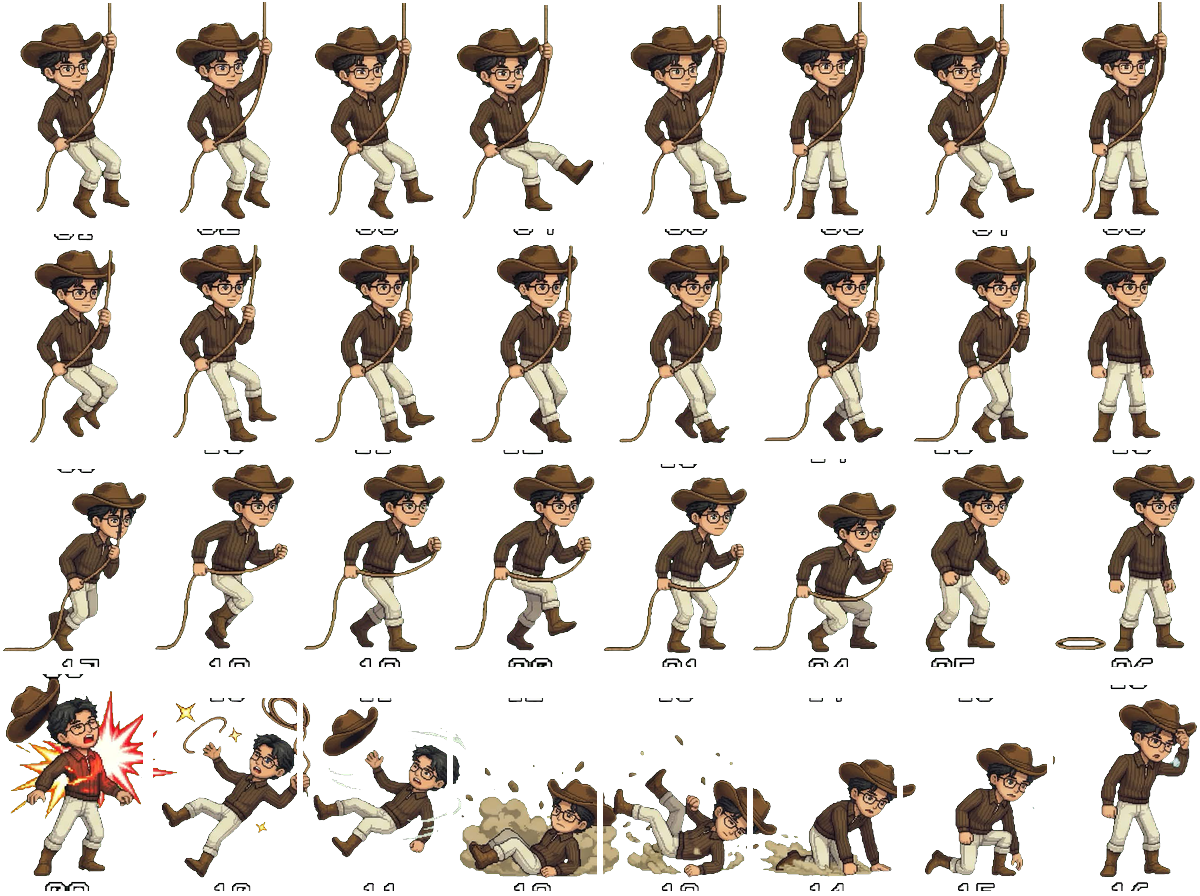
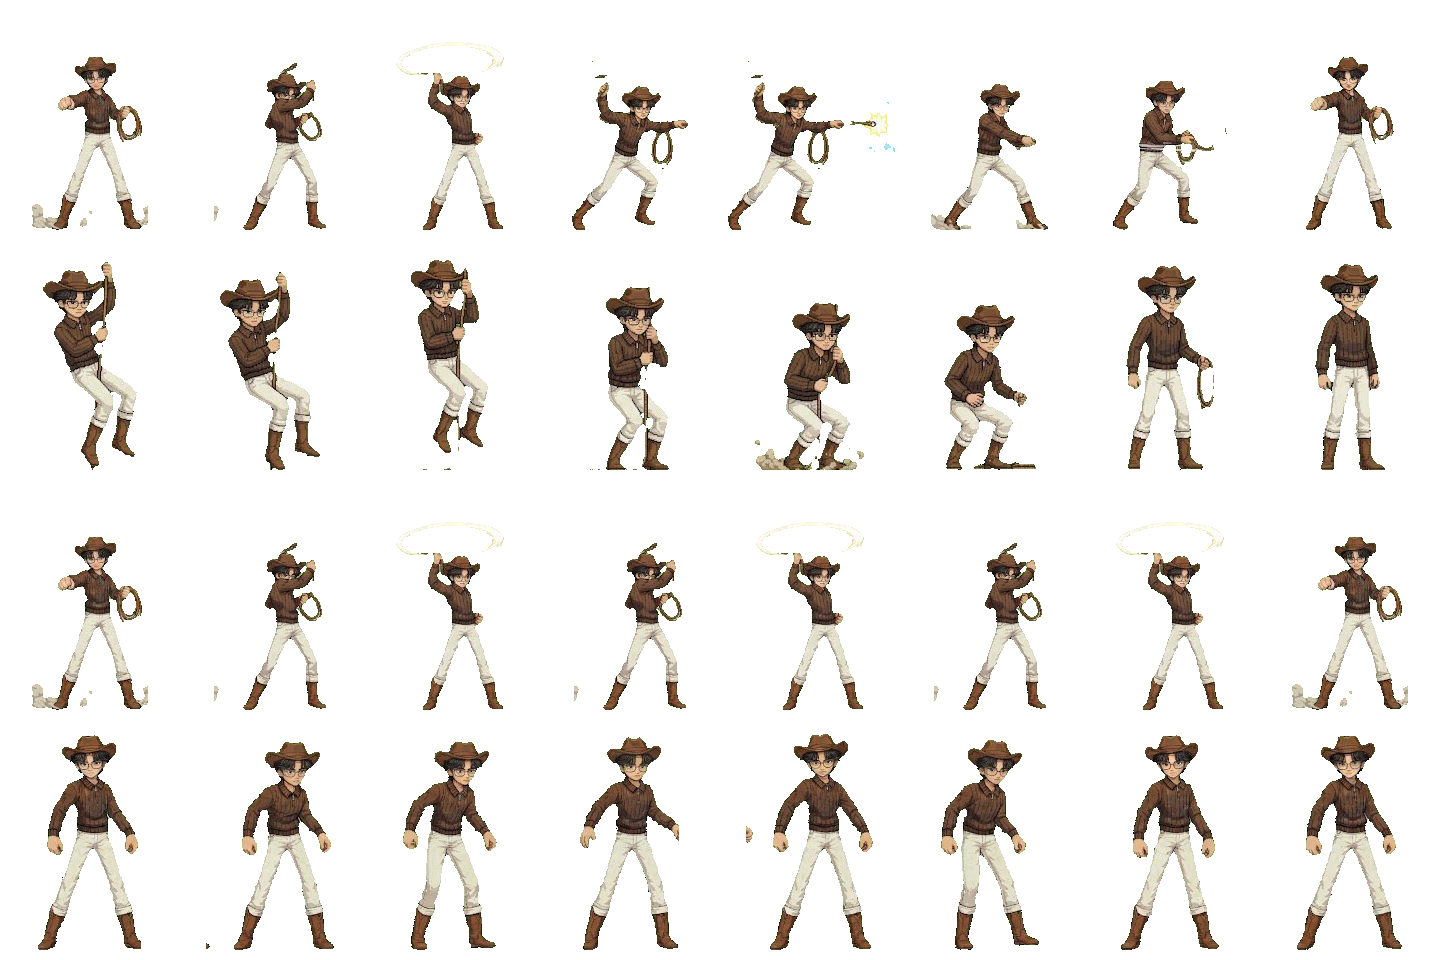
feat(adif): complete revamp of Adif animations (tower idle, ground idle, walk, run, combat lasso strike, and rappel landing)

diff --git a/src/components/GameCanvas.tsx b/src/components/GameCanvas.tsx
@@ -2201,10 +2201,10 @@ export const GameCanvas: React.FC<GameCanvasProps> = ({
 
       // Layer 5.62: Adif (Sang Koboi Menara) - Perkampungan Zone
       if (adifMasterImg && currentZone === "perkampungan") {
-        const destW = 86;
-        const destH = 126;
-        const frameW = 150;
-        const frameH = 224;
+        const destW = 104;
+        const destH = 138;
+        const frameW = 180;
+        const frameH = 240;
 
         if (adifState.onTower) {
           const towerScreenX = 1710 - camX;
@@ -2219,18 +2219,22 @@ export const GameCanvas: React.FC<GameCanvasProps> = ({
             ctx.stroke();
             ctx.restore();
 
-            // Adif rappelling down on rope (Row 3, frames 1..7)
-            const rappelFrame = 1 + (adifState.animFrame % 7);
+            // Adif rappelling down on rope (Row 1 of adifCombatImg, 8 frames)
+            const rappelFrame = adifState.animFrame % 8;
             const sx = rappelFrame * frameW;
-            const sy = 3 * frameH;
+            const sy = 1 * frameH;
             const drawX = towerScreenX - destW / 2 - 5;
-            const drawY = adifState.y - destH * (219 / 224);
-            ctx.drawImage(adifMasterImg, sx, sy, frameW, frameH, drawX, drawY, destW, destH);
+            const drawY = adifState.y + 18 - destH * (230 / 240);
+            const activeRappelSheet = adifCombatImg || adifMasterImg;
+            ctx.drawImage(activeRappelSheet, sx, sy, frameW, frameH, drawX, drawY, destW, destH);
           } else {
-            // Adif perched on top of Tower 03 crossarm platform (Row 3, Frame 0)
+            // Adif perched on top of Tower 03 crossarm platform (Row 3, animated 8-frame Tower Idle)
+            const towerIdleFrame = Math.floor(globalTimer / 8) % 8;
+            const sx = towerIdleFrame * frameW;
+            const sy = 3 * frameH;
             const drawX = towerScreenX - destW / 2 + 5;
-            const drawY = GROUND_Y - 248;
-            ctx.drawImage(adifMasterImg, 0, 3 * frameH, frameW, frameH, drawX, drawY, destW, destH);
+            const drawY = GROUND_Y - 240 + 18 - destH * (230 / 240);
+            ctx.drawImage(adifMasterImg, sx, sy, frameW, frameH, drawX, drawY, destW, destH);
           }
         } else {
           // Adif on Ground
@@ -2239,36 +2243,36 @@ export const GameCanvas: React.FC<GameCanvasProps> = ({
           let aCol = adifState.animFrame % 8;
 
           if (duelState.inCombat && !duelState.isDefeated) {
-            if (adifCombatImg) {
-              activeSheet = adifCombatImg;
-              if (adifState.combatType === "whip") {
-                aRow = 1; // Whip attack
-              } else if (adifState.combatType === "punch") {
-                aRow = 2; // Punch rush
-              } else {
-                aRow = 0; // Overhead lasso spin & stance
-              }
+            if (adifState.state === "combat") {
+              activeSheet = adifCombatImg || adifMasterImg;
+              aRow = 0; // Combat 8-frame lasso combo attack
+            } else if (adifState.state === "run") {
+              activeSheet = adifMasterImg;
+              aRow = 2; // Run
+            } else if (adifState.state === "walk") {
+              activeSheet = adifMasterImg;
+              aRow = 1; // Walk
             } else {
-              aRow = 2;
+              activeSheet = adifCombatImg || adifMasterImg;
+              aRow = 2; // Combat windup & ready stance
             }
           } else if (adifState.state === "run") {
+            activeSheet = adifMasterImg;
             aRow = 2; // Run
           } else if (adifState.state === "walk") {
+            activeSheet = adifMasterImg;
             aRow = 1; // Walk
           } else if (adifState.state === "defeated") {
-            if (adifCombatImg) {
-              activeSheet = adifCombatImg;
-              aRow = 3; // Friendly dismount / salute
-            } else {
-              aRow = 0;
-            }
+            activeSheet = adifCombatImg || adifMasterImg;
+            aRow = 3; // Friendly stance / defeated
           } else {
-            aRow = 0; // Idle
+            activeSheet = adifMasterImg;
+            aRow = 0; // Ground Idle
           }
 
           const sx = aCol * frameW;
           const sy = aRow * frameH;
-          const drawY = adifState.y + 18 - destH * (219 / 224);
+          const drawY = adifState.y + 18 - destH * (230 / 240);
           const aScreenX = adifState.x - camX + (adifState.shake > 0 ? (Math.random() - 0.5) * adifState.shake : 0);
 
           ctx.save();
